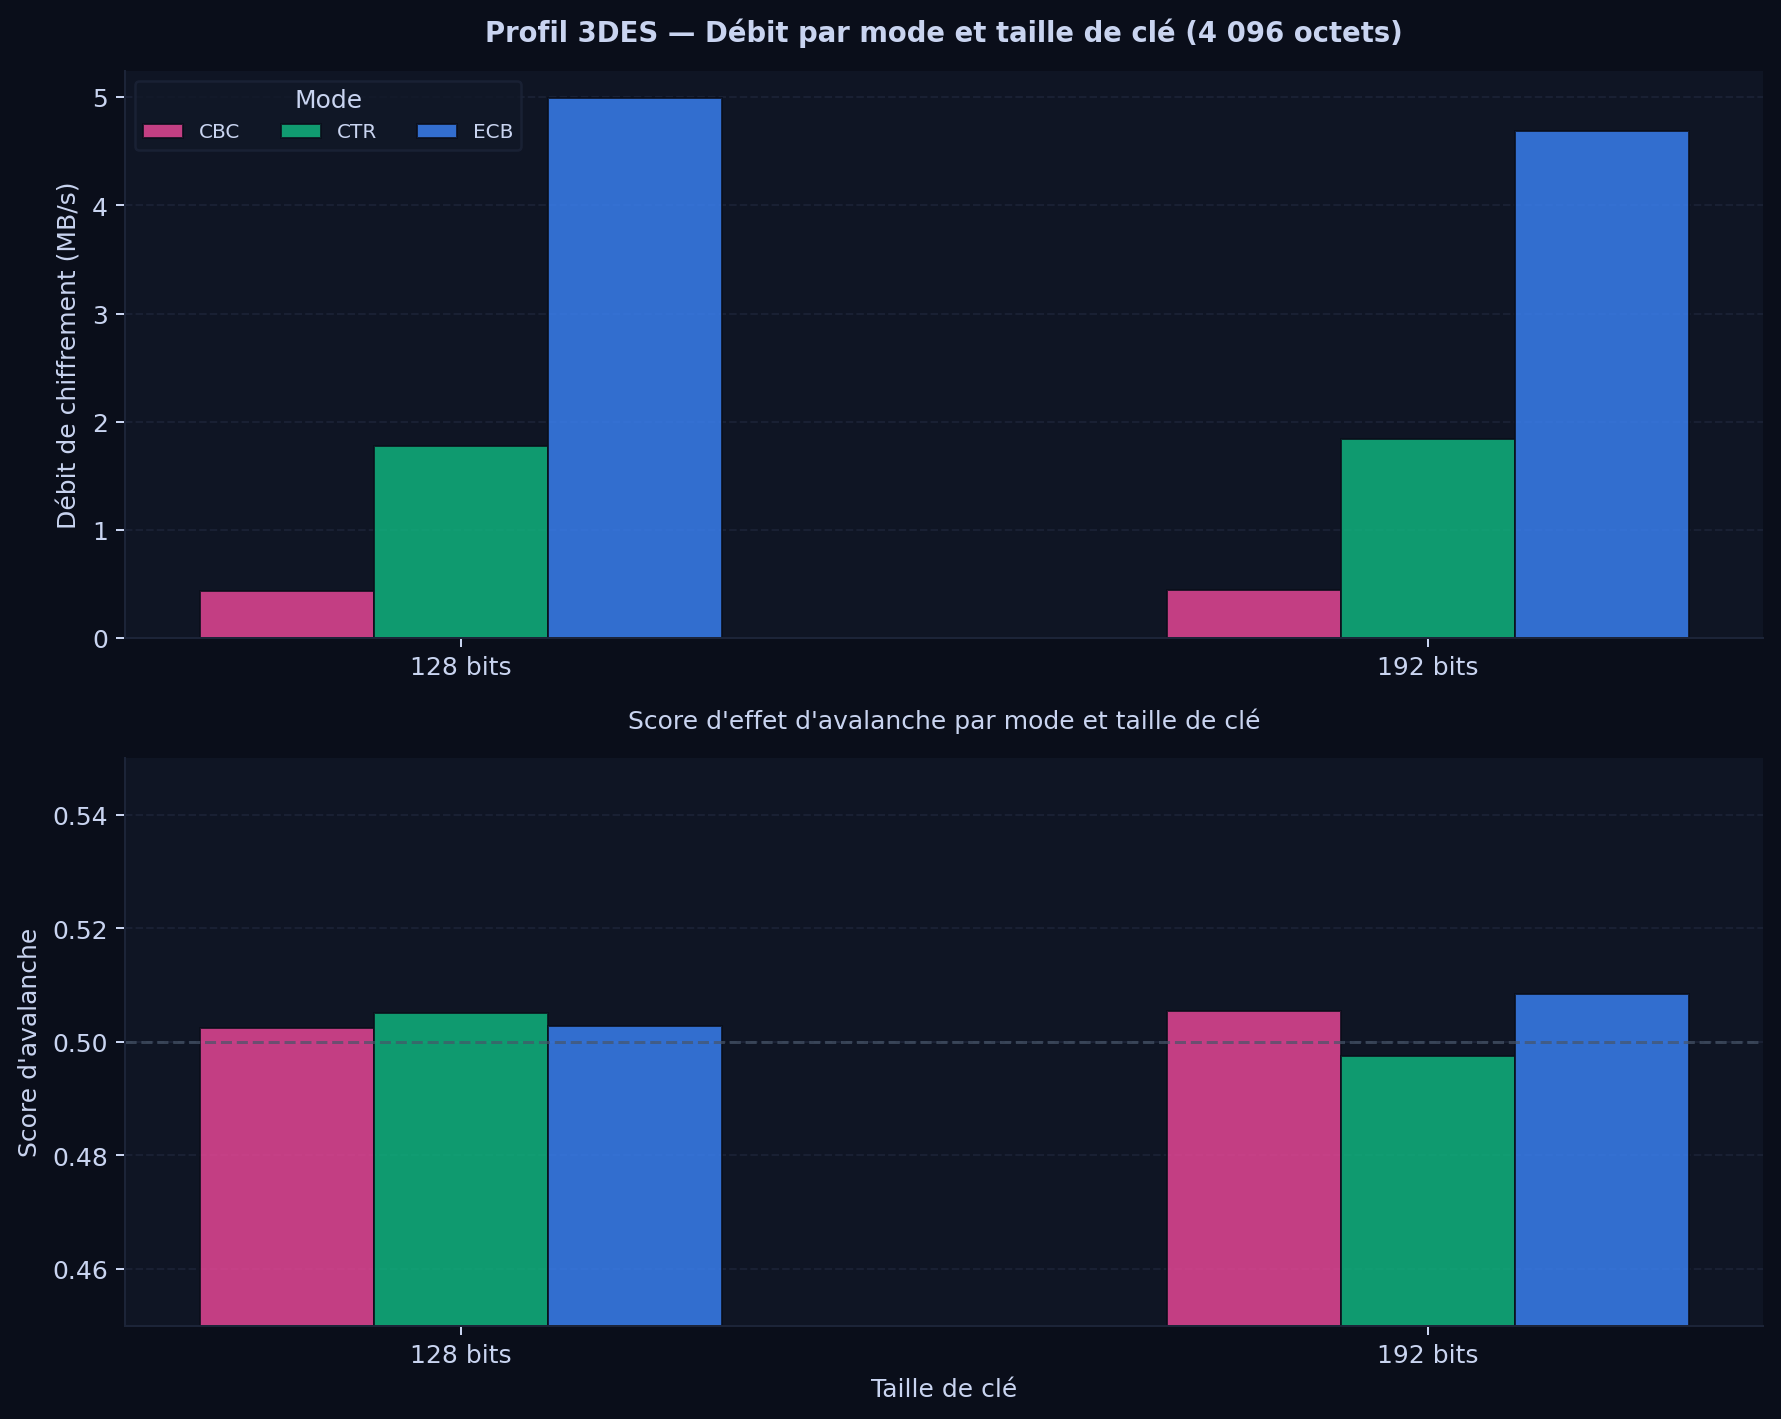
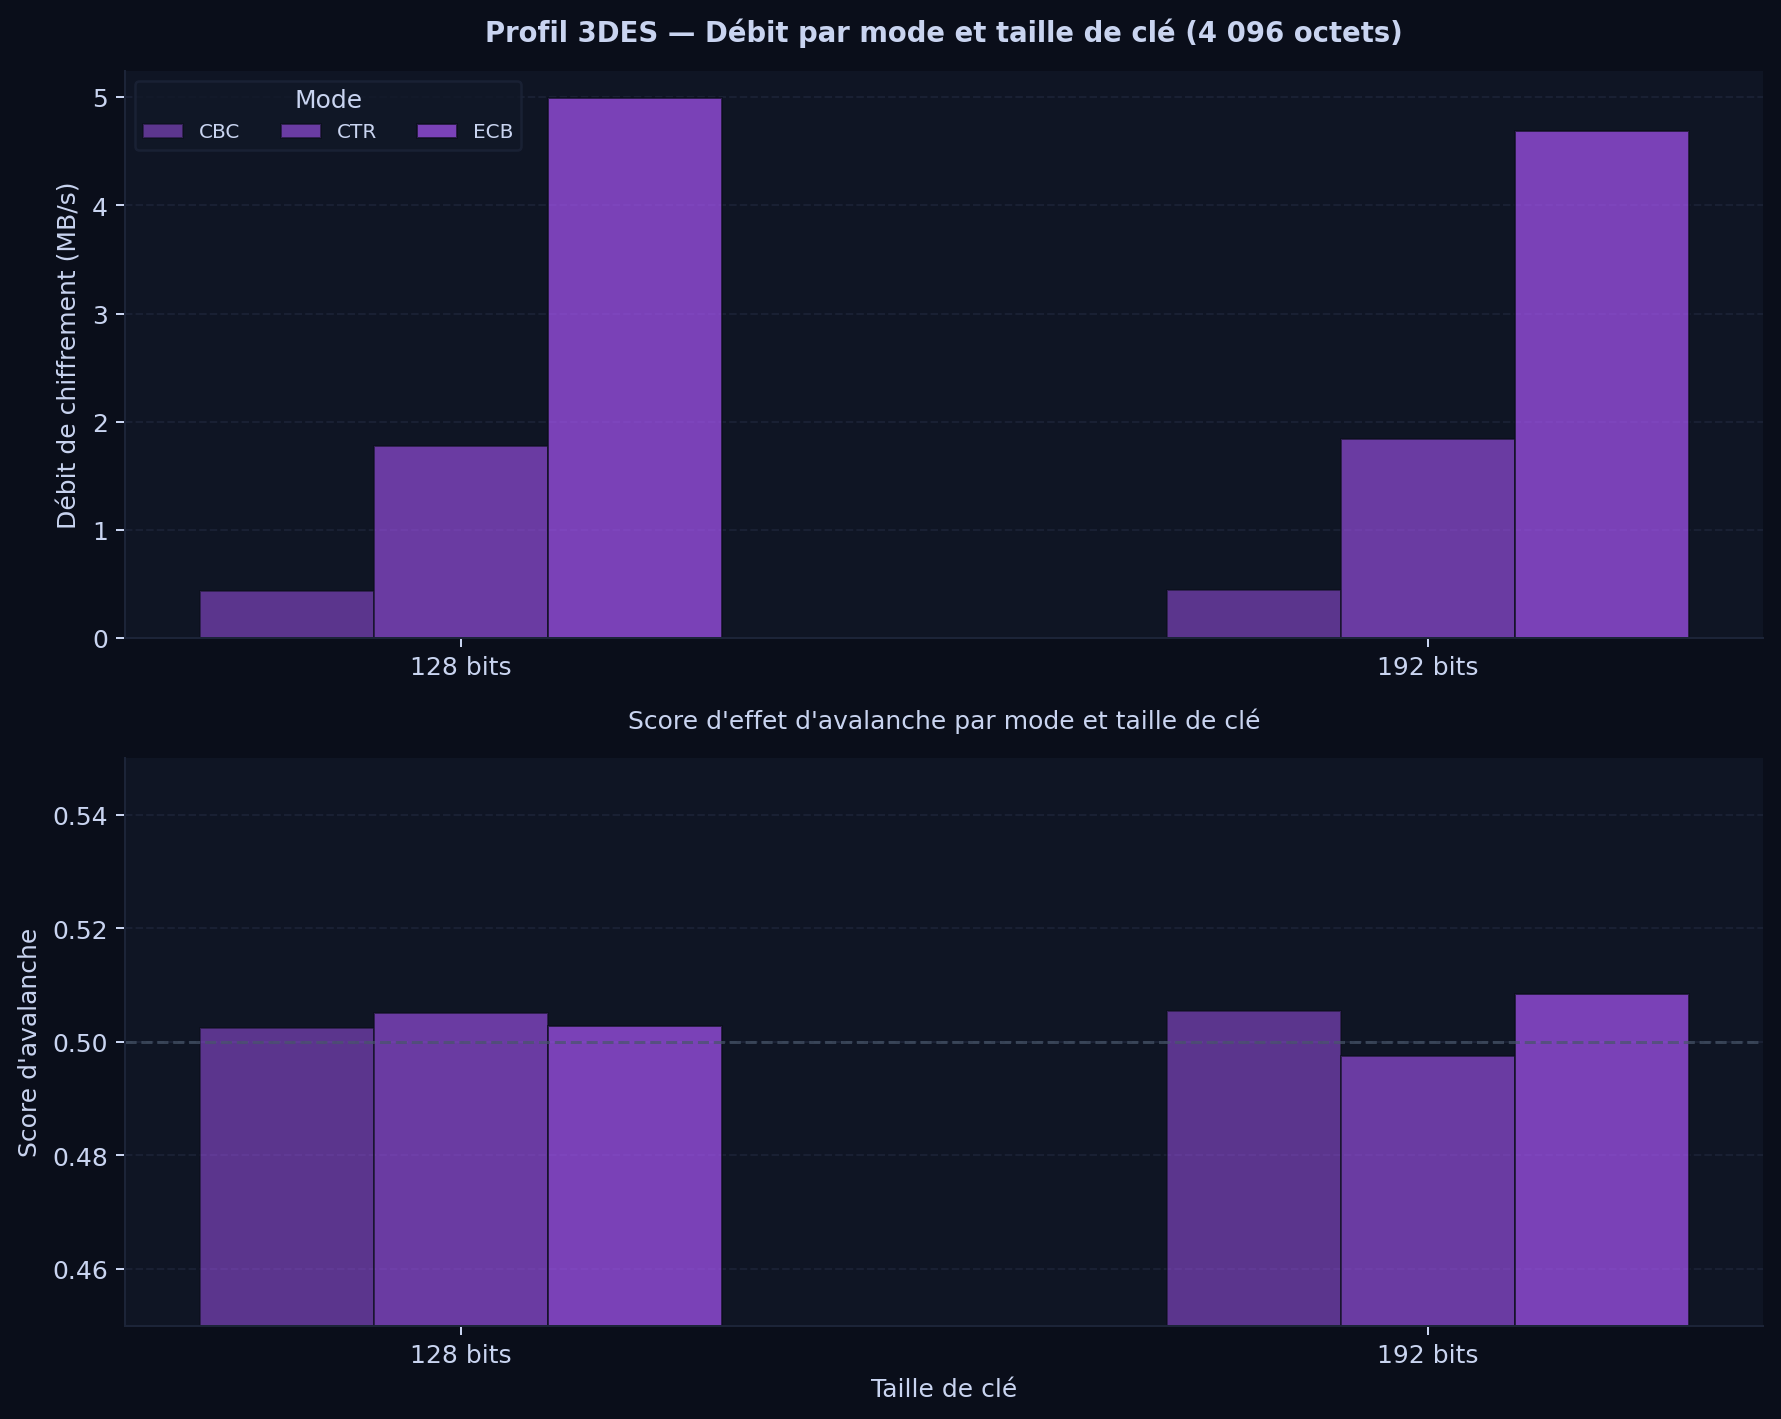
Update algorithm profiles to use consistent algorithm colors
- Changed 06-algorithm-profiles to use ALGO_COLORS instead of MODE_COLORS
- Each profile now uses its algorithm's signature color (AES=blue, DES=pink, etc.)
- Modes are shown through varying alpha levels for visual distinction
- Now consistent with other charts (fig4b) in color scheme

diff --git a/crypto-experiments/scripts/generate_charts.py b/crypto-experiments/scripts/generate_charts.py
@@ -451,6 +451,7 @@ def algo_profile(algo_name):
     
     modes_available = sorted({r["mode"] for r in data_4096})
     key_bits_list = sorted({r["key_size_bits"] for r in data_4096})
+    algo_color = ALGO_COLORS.get(algo_name, "#888")
     
     fig, (ax1, ax2) = plt.subplots(2, 1, figsize=(10, 8))
     fig.patch.set_facecolor(BG_COLOR)
@@ -466,9 +467,11 @@ def algo_profile(algo_name):
         for kb in key_bits_list:
             match = [r for r in data_4096 if r["mode"] == mode and r["key_size_bits"] == kb]
             vals.append(match[0]["throughput_enc_mbps"] if match else 0)
+        # Vary alpha by mode for visual distinction
+        alpha_val = 0.5 + (modes_available.index(mode) * 0.1)
         ax1.bar(x + offset, vals, w, label=mode,
-               color=MODE_COLORS.get(mode, "#888"),
-               edgecolor=BG_COLOR, linewidth=0.8, alpha=0.82)
+               color=algo_color,
+               edgecolor=BG_COLOR, linewidth=0.8, alpha=alpha_val)
     
     ax1.set_xticks(x)
     ax1.set_xticklabels([f"{k} bits" for k in key_bits_list])
@@ -484,9 +487,10 @@ def algo_profile(algo_name):
         for kb in key_bits_list:
             match = [r for r in data_4096 if r["mode"] == mode and r["key_size_bits"] == kb]
             vals.append(match[0]["avalanche_score"] if match else 0)
+        alpha_val = 0.5 + (modes_available.index(mode) * 0.1)
         ax2.bar(x + offset, vals, w, label=mode,
-               color=MODE_COLORS.get(mode, "#888"),
-               edgecolor=BG_COLOR, linewidth=0.8, alpha=0.82)
+               color=algo_color,
+               edgecolor=BG_COLOR, linewidth=0.8, alpha=alpha_val)
     
     ax2.axhline(0.5, color="#475569", linestyle="--", linewidth=1.2, alpha=0.7)
     ax2.set_xticks(x)
